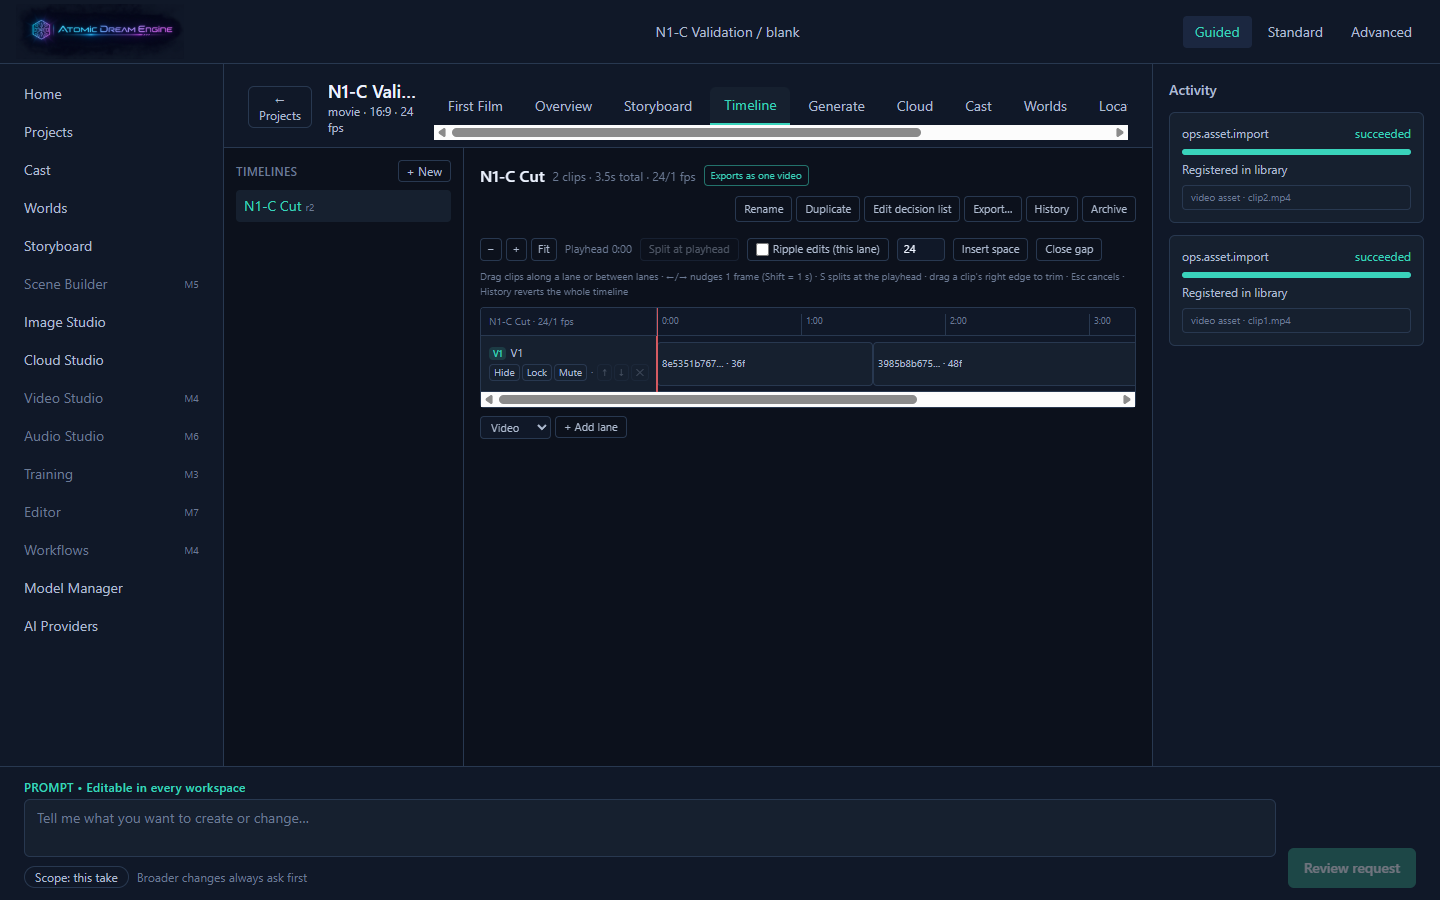
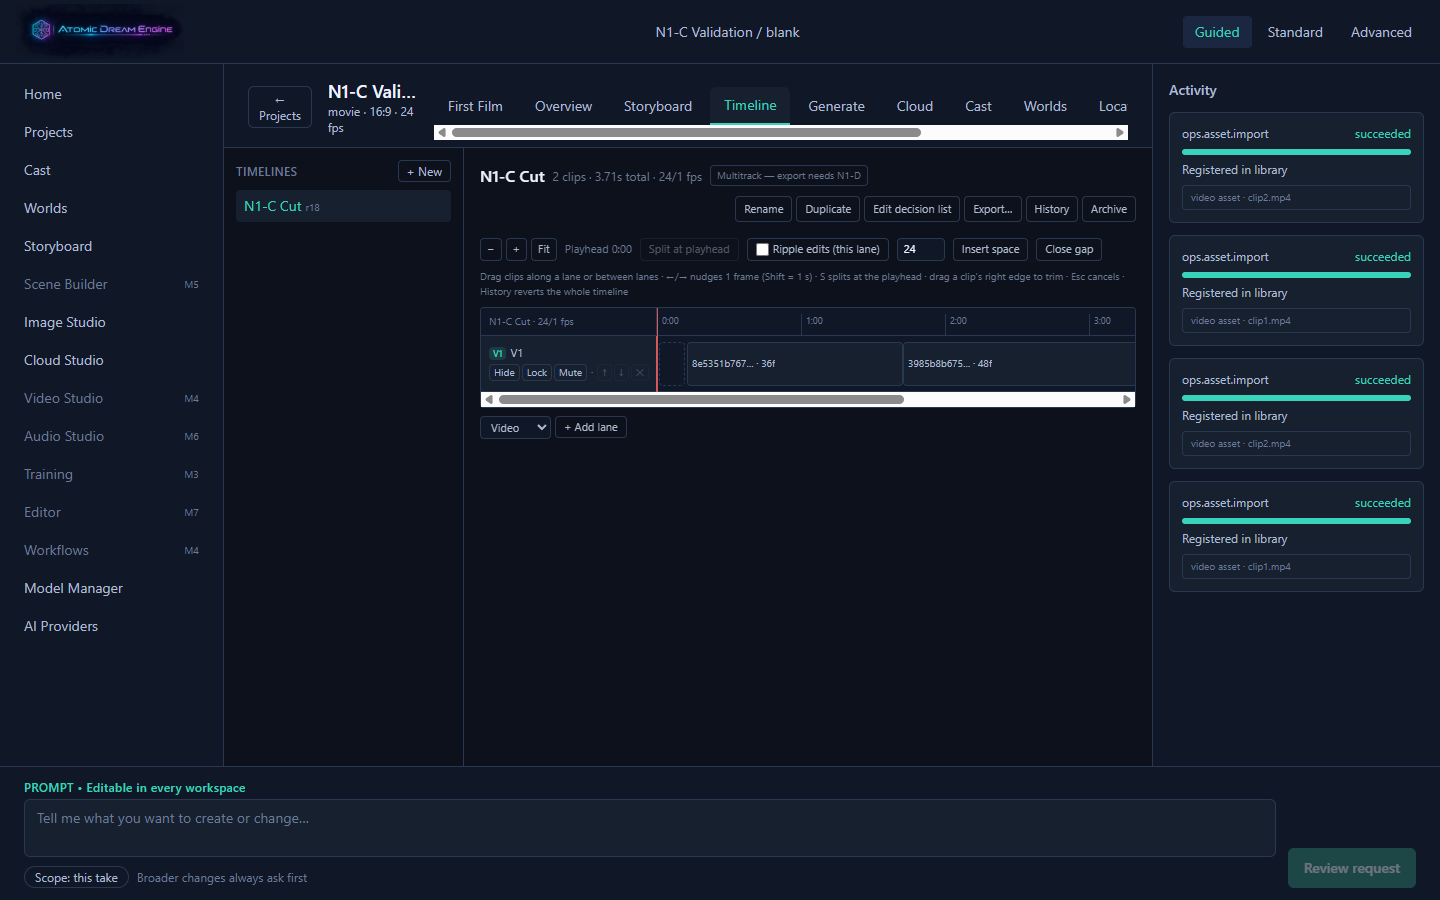
N1-C review hardening: mixed-rate split coverage, occupancy-delta proof, all-scope atomicity, extended installed acceptance
- test_split_mixed_rate_valid_cuts: 48fps source on a 24fps grid —
  representable cuts DO split (the rule isn't a blanket mixed-rate
  refusal).
- test_split_24000_1001_source_boundary: 24000/1001 source — tl frame
  500 → 499.5 src refuses; tl frame 1001 → exactly 1000 src splits.
- test_split_preserves_shot_scene: provenance rides both fragments.
- test_ripple_all_scope_refusal_moves_nothing: locked in-scope lane →
  complete refusal, zero partial movement on unlocked lanes.
- test_ripple_trim_uses_occupancy_not_source_delta: NTSC source —
  trimming 4 src frames shifts followers by the integer occupancy
  delta (-3), proving timeline-frame displacement, never source
  frames.
- test_ripple_trim_one_frame_and_gap_adjacent: 1-frame ripples; gap
  spacing preserved across the shift.
- test_gap_close_revert_restores_gapped_layout: revert restores the
  exact pre-op arrangement including gaps.
- _ripple_tracks/RIPPLE_SCOPES doc: 'all' treats lane kinds uniformly
  (video, overlay, audio — audio lanes hold no clips yet).
- cdp-n1c-acceptance.cjs extended to 14 steps: locked-lane refusal,
  Escape-cancel, export-badge flip on gap close, restart persistence.
  Full PASS re-verified on the installed build.

diff --git a/backend/tests/test_n1c_editing.py b/backend/tests/test_n1c_editing.py
@@ -87,6 +87,63 @@ def test_split_mixed_rate_requires_source_frame(client):
     assert len(_detail(client, pid, t["id"])["clips"]) == 1
 
 
+def test_split_mixed_rate_valid_cuts(client):
+    """Representable mixed-rate cuts DO split — the rule isn't a
+    blanket mixed-rate refusal. 48fps src on a 24fps timeline: every
+    timeline frame maps to exactly 2 source frames."""
+    pid = make_project(client)["id"]
+    t = _tl(client, pid)
+    _insert(client, pid, t["id"],
+            _video(client, pid, "h.mp4", sha="e" * 64,
+                   frames=72, fps=48, duration=1.5))
+    c0 = _clip(_detail(client, pid, t["id"]))
+    _split(client, pid, t["id"], c0["id"], 10)  # tl 10 → src 20
+    d = _detail(client, pid, t["id"])
+    left, right = sorted(d["clips"], key=lambda c: c["start_frames"])
+    assert (left["in_frame"], left["out_frame"]) == (0, 20)
+    assert (right["in_frame"], right["out_frame"]) == (20, 72)
+    assert right["start_frames"] == 10
+
+
+def test_split_24000_1001_source_boundary(client):
+    """24000/1001 src on a 24fps timeline: whole source frames land at
+    tl offsets that are multiples of 1001 (off_src = off_tl·1000/1001)."""
+    pid = make_project(client)["id"]
+    t = _tl(client, pid, "NTSC24", fps_num=24, fps_den=1)
+    # 1200f @ 24000/1001 → extent 1201.2 tl frames.
+    _insert(client, pid, t["id"],
+            _video(client, pid, "n24.mp4", sha="f" * 64,
+                   frames=1200, fps=23.976, duration=1200 / 23.976))
+    c0 = _clip(_detail(client, pid, t["id"]))
+    # off=500 → 500·1000/1001 = 499.5 src frames → mid-frame → refuse.
+    r = _split(client, pid, t["id"], c0["id"], 500, expect=422)
+    assert "source frame" in r.text
+    # off=1001 → exactly 1000 source frames → legal cut.
+    _split(client, pid, t["id"], c0["id"], 1001)
+    d = _detail(client, pid, t["id"])
+    left, right = sorted(d["clips"], key=lambda c: c["start_frames"])
+    assert (left["in_frame"], left["out_frame"]) == (0, 1000)
+    assert (right["in_frame"], right["out_frame"]) == (1000, 1200)
+    assert right["start_frames"] == 1001
+    assert sum(c["out_frame"] - c["in_frame"] for c in d["clips"]) == 1200
+
+
+def test_split_preserves_shot_scene(client):
+    """Shot/scene provenance rides along on both fragments."""
+    from tests.test_c4b_shot_generate import _scene, _shot
+    pid = make_project(client)["id"]
+    sc = _scene(client, pid, "S1")["scene"]
+    sh = _shot(client, pid, sc["id"], "wide")["shot"]
+    t = _tl(client, pid)
+    _insert(client, pid, t["id"], _video(client, pid),
+            shot_id=sh["id"], scene_id=sc["id"])
+    c0 = _clip(_detail(client, pid, t["id"]))
+    _split(client, pid, t["id"], c0["id"], 30)
+    d = _detail(client, pid, t["id"])
+    for c in d["clips"]:
+        assert c["shot_id"] == sh["id"] and c["scene_id"] == sc["id"]
+
+
 def test_split_locked_track_refuses(client):
     pid = make_project(client)["id"]
     t = _tl(client, pid)
@@ -224,6 +281,30 @@ def test_ripple_delete_all_scope_and_locked_guard(client):
     assert v2_clip["start_frames"] == 128
 
 
+def test_ripple_all_scope_refusal_moves_nothing(client):
+    """A locked in-scope lane refuses the WHOLE op — no partial
+    movement on the unlocked lanes either (fail closed)."""
+    pid = make_project(client)["id"]
+    t = _tl(client, pid)
+    v1, clips = _three(client, pid, t["id"])
+    v2 = _track(client, pid, t["id"], name="V2")
+    _commit(client, pid, "timeline.clip.place",
+            {"timeline_id": t["id"], "track_id": v2["id"],
+             "asset_id": _video(client, pid, "x.mp4", sha="e" * 64)["id"],
+             "start_frames": 200})
+    _commit(client, pid, "timeline.track.update",
+            {"timeline_id": t["id"], "track_id": v2["id"],
+             "locked": True})
+    _commit(client, pid, "timeline.clip.remove",
+            {"timeline_id": t["id"], "clip_id": clips[1]["id"],
+             "ripple_scope": "all"}, expect=422)
+    d = _detail(client, pid, t["id"])
+    # Nothing moved — not even the deleted clip was removed.
+    assert sorted(c["start_frames"] for c in d["clips"]
+                  if c["track_id"] == v1) == [0, 72, 144]
+    assert len(d["clips"]) == 4
+
+
 def test_ripple_scope_validation(client):
     pid = make_project(client)["id"]
     t = _tl(client, pid)
@@ -312,6 +393,68 @@ def test_ripple_trim_head_and_non_ripple(client):
              "out_frame": 60})
     d = _detail(client, pid, t["id"])
     assert sorted(c["start_frames"] for c in d["clips"]) == [0, 48, 120]
+
+
+def test_ripple_trim_uses_occupancy_not_source_delta(client):
+    """Displacement is the change in INTEGER TIMELINE-FRAME occupancy,
+    never the source-frame delta. NTSC source on a 24fps timeline:
+    trimming 4 source frames changes occupancy by only 3."""
+    pid = make_project(client)["id"]
+    t = _tl(client, pid)
+    # A: 120f @ 30000/1001 trimmed to [0,91) → extent 72.8 → occupies 73.
+    _insert(client, pid, t["id"],
+            _video(client, pid, "n.mp4", sha="a" * 64,
+                   frames=120, fps=29.97, duration=120 / 29.97),
+            out_frame=91)
+    d = _detail(client, pid, t["id"])
+    a = _clip(d)
+    assert a["start_frames"] == 0
+    # B: plain 24fps clip packed right after → starts at 73.
+    _commit(client, pid, "timeline.clip.place",
+            {"timeline_id": t["id"],
+             "asset_id": _video(client, pid, "b.mp4",
+                                sha="b" * 64)["id"],
+             "start_frames": 73})
+    d = _detail(client, pid, t["id"])
+    b = next(c for c in d["clips"] if c["start_frames"] == 73)
+    # Shrink A by 4 SRC frames (91→87): extent 72.8→69.77 → ceil 73→70.
+    # Occupancy delta -3 — a source-delta implementation would give -4.
+    _commit(client, pid, "timeline.clip.trim",
+            {"timeline_id": t["id"], "clip_id": a["id"],
+             "out_frame": 87, "ripple_scope": "track"})
+    d = _detail(client, pid, t["id"])
+    b2 = next(c for c in d["clips"] if c["id"] == b["id"])
+    assert b2["start_frames"] == 70  # NOT 69 — occupancy, not source
+    # Grow A by 4 src frames (87→91): occupancy 70→73 → B returns to 73.
+    _commit(client, pid, "timeline.clip.trim",
+            {"timeline_id": t["id"], "clip_id": a["id"],
+             "out_frame": 91, "ripple_scope": "track"})
+    d = _detail(client, pid, t["id"])
+    assert next(c for c in d["clips"] if c["id"] == b["id"])[
+        "start_frames"] == 73
+
+
+def test_ripple_trim_one_frame_and_gap_adjacent(client):
+    """One-frame ripples move followers by one grid frame; a follower
+    across a gap keeps its gap (shift preserves spacing)."""
+    pid = make_project(client)["id"]
+    t = _tl(client, pid)
+    v1 = _gapped(client, pid, t["id"])  # clips at 0 and 120 (48f gap)
+    d = _detail(client, pid, t["id"])
+    a, b = sorted(d["clips"], key=lambda c: c["start_frames"])
+    _commit(client, pid, "timeline.clip.trim",
+            {"timeline_id": t["id"], "clip_id": a["id"],
+             "out_frame": 71, "ripple_scope": "track"})
+    d = _detail(client, pid, t["id"])
+    b2 = next(c for c in d["clips"] if c["id"] == b["id"])
+    assert b2["start_frames"] == 119  # moved -1, 48f gap preserved
+    # And back: grow one frame → follower +1.
+    _commit(client, pid, "timeline.clip.trim",
+            {"timeline_id": t["id"], "clip_id": a["id"],
+             "out_frame": 72, "ripple_scope": "track"})
+    d = _detail(client, pid, t["id"])
+    assert next(c for c in d["clips"] if c["id"] == b["id"])[
+        "start_frames"] == 120
 
 
 # ---------- gap management ----------
@@ -446,6 +589,21 @@ def test_split_and_delete_preserve_export_honesty(client):
     e2 = _edl(client, pid, t["id"], version=2)
     assert e2["format"] == "ade-edl/2"
     assert any(g["duration_frames"] == 24 for g in e2["gaps"])
+
+
+def test_gap_close_revert_restores_gapped_layout(client):
+    """Revert restores the exact pre-op arrangement — gaps included."""
+    pid = make_project(client)["id"]
+    t = _tl(client, pid)
+    v1 = _gapped(client, pid, t["id"])  # clips at 0 and 120
+    rev = _detail(client, pid, t["id"])["revision"]
+    _gap(client, pid, t["id"], "close", v1, 90)
+    assert sorted(c["start_frames"] for c in
+                  _detail(client, pid, t["id"])["clips"]) == [0, 72]
+    _commit(client, pid, "timeline.revert",
+            {"timeline_id": t["id"], "to_revision": rev})
+    d = _detail(client, pid, t["id"])
+    assert sorted(c["start_frames"] for c in d["clips"]) == [0, 120]
 
 
 def test_gap_close_restores_v1_export(client):

diff --git a/backend/app/domain/timeline.py b/backend/app/domain/timeline.py
@@ -864,7 +864,10 @@ def trim_clip(session: Session, tl: Timeline, clip: TimelineClip, *,
 
 #: Ripple scope choices — 'track' (the safest default: only the edited
 #: lane's later clips move) or 'all' (every lane's later clips; a
-#: locked lane that would be affected refuses the whole op).
+#: locked lane that would be affected refuses the whole op). 'all'
+#: treats lane kinds uniformly — video, overlay, and audio lanes all
+#: shift by the same integer timeline-frame delta (audio lanes can't
+#: hold clips yet, so today 'all' effectively spans video+overlay).
 RIPPLE_SCOPES = ("track", "all")
 
 

diff --git a/docs/n1c-acceptance-evidence.md b/docs/n1c-acceptance-evidence.md
@@ -4,7 +4,7 @@
 `apps/desktop/src-tauri/target/release/bundle/nsis/Atomic Dream Engine_0.1.0_x64-setup.exe`
 (installer built on branch `feat/n1c-advanced-editing`; sidecar rebuilt
 with the N1-C backend; installed to `%LOCALAPPDATA%\Atomic Dream Engine`,
-sidecar observed on ephemeral port 53294).
+sidecar observed on ephemeral ports 53294/51981 across runs).
 
 **Driver:** `scripts/cdp-n1c-acceptance.cjs` — attaches to the installed
 app's WebView2 via CDP (`--remote-debugging-port=9223`), learns the
@@ -14,30 +14,36 @@ commands, then exercises the N1-C controls through live DOM pointer,
 mouse, and keyboard events. Every claim is verified against the API —
 nothing is reported on faith.
 
-**Result: PASS — 10 steps** (`docs/n1c-evidence/n1c-acceptance.log`)
+**Result: PASS — 14 steps** (`docs/n1c-evidence/n1c-acceptance.log`)
 
 | # | Check | Evidence |
 |---|-------|----------|
-| 1 | Seed: project + 2 imported video assets + timeline via installed backend | jobs succeeded |
-| 2 | N1-C controls render: Split-at-playhead, Ripple toggle, Insert-space, Close-gap, ≥2 trim handles | `02-n1c-controls.png` |
-| 3 | Split at playhead → `timeline.clip.split` commits; starts `[0,18,36]`; total source duration conserved (84 src frames); right fragment keeps `source_version_id` + `source_sha256` | `03-after-split.png`, API reads |
-| 4 | Non-ripple delete leaves an explicit gap; DOM shows `lane-gap` indicator "Gap — 18 frames — click to close" | `04-gap-indicator.png` |
-| 5 | Clicking the gap indicator commits `timeline.gap.close` → lane abuts `[0,18]`, indicator gone | API read |
-| 6 | Insert-space 12f at a boundary commits `timeline.gap.insert` → follower `[18→30]`, gap indicator renders | `06-inserted-gap.png` |
-| 7 | Close-gap toolbar button restores `[0,18]` | API read |
-| 8 | Trim-handle pointer-drag commits `timeline.clip.trim` (`out_frame` 36→31); non-ripple leaves the follower in place; retracted end renders as an honest `lane-gap` | `08-trim-handle.png`, API reads |
-| 9 | Ripple toggle + delete via the real ConfirmDialog ("later clips on the same lane shift left") → follower shifts by the deleted footprint (18→5), preserving the 5f gap as a leading gap | API read |
-| 10 | `ade-edl/2` export of the final layout is honest (track + gaps + pins) | `final-edl-v2.json` |
+| 1 | Seed: project + imported video assets + timeline via installed backend | jobs succeeded |
+| 2 | N1-C controls render: Split-at-playhead, Ripple toggle, Insert-space, Close-gap, trim handles | `02-n1c-controls.png` |
+| 3 | Split at playhead → `timeline.clip.split` commits; total source duration conserved; right fragment keeps `source_version_id` + `source_sha256` | `03-after-split.png`, API reads |
+| 4 | Non-ripple delete leaves an explicit gap; DOM shows `lane-gap` indicator with exact frame count | `04-gap-indicator.png` |
+| 5 | Clicking the gap indicator commits `timeline.gap.close` → lane abuts, indicator gone | API read |
+| 6 | Insert-space commits `timeline.gap.insert` → followers shift +12, gap indicator renders | `06-inserted-gap.png` |
+| 7 | Close-gap toolbar button restores contiguity | API read |
+| 8 | Trim-handle drag commits `timeline.clip.trim`; non-ripple leaves followers in place; retracted end renders as an honest `lane-gap` | `08-trim-handle.png`, API reads |
+| 9 | Ripple toggle + delete via the real ConfirmDialog → followers shift by the deleted footprint (gap preserved) | API read |
+| 10 | Locked-track refusal: V1 locked → trim handles gone, split/insert-space/gap buttons all disabled | live DOM |
+| 11 | Escape cancels a mid-flight trim drag → `out_frame` unchanged via API | API read |
+| 12 | Export eligibility: leading-gap layout shows "Multitrack — export needs N1-D"; closing it flips to "Exports as one video" | badge text |
+| 13 | Restart persistence: full WebView reload → DOM renders the committed arrangement (clip count + start frame match API) | post-reload DOM + API |
+| 14 | `ade-edl/2` export of the final layout is honest (tracks + gaps + pins) | `final-edl-v2.json` |
 
-**Clean shutdown:** after `taskkill` of the app process, no
-`atomic-*`/`atomic-backend.exe` processes remained (verified via
-`tasklist`).
+**Clean shutdown:** after app termination, no `atomic-*` processes
+remain (verified via `tasklist`).
 
-**Not covered by this driver (unit-tested instead):**
-`S`-key split (same command path as the button — covered by
-`TimelineEditor.test.tsx`), stale-approval 422 refresh UX (page test +
-backend tests), `ripple_scope:"all"` locked-lane refusal (backend
-tests), mixed-frame-rate split refusal (backend tests), idempotent
-replay + revert (backend tests), cross-project isolation (backend
-tests). Human-required items (visual polish review, pen/touch input)
-remain manual.
+**Not covered by this driver (unit/backend-tested instead):**
+ripple `clip.insert`/`clip.place` — the editor has no "place clip at
+playhead" affordance (clips arrive via Storyboard send-to-timeline);
+the command path is covered by `test_ripple_insert_pushes_followers`
+and `test_ripple_insert_mid_clip_refuses`. `S`-key split (same command
+path as the button — `TimelineEditor.test.tsx`), stale-approval 422
+refresh UX (page test + backend), `ripple_scope:"all"` (backend-only;
+UI always sends `"track"`), mixed-frame-rate split refusal +
+24000/1001 boundary (backend tests), idempotent replay + revert +
+cross-project isolation (backend tests). Human-required items (visual
+polish review, pen/touch input) remain manual.
